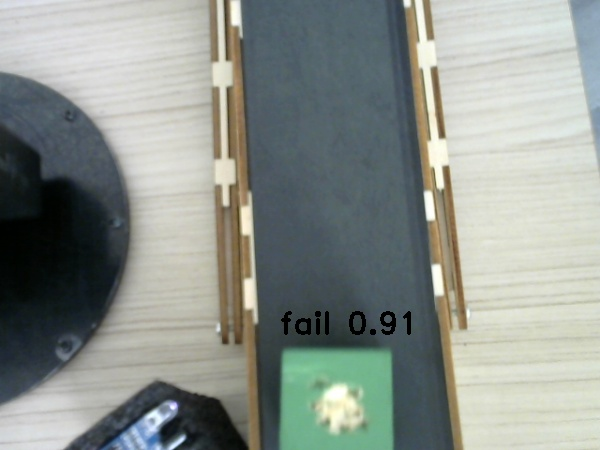
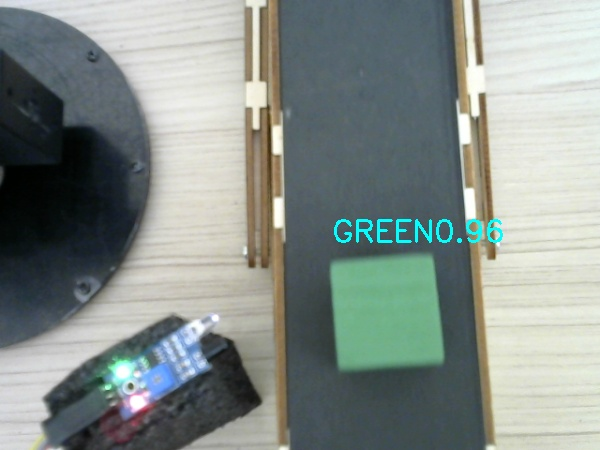
gg

diff --git a/MainTool/ToolManager.cpp b/MainTool/ToolManager.cpp
@@ -6,6 +6,7 @@
 #include "ResultForm.h"
 #include "ServerForm.h"
 #include "CntrlForm.h"
+#include "ConnectTread.h"
 
 ToolManager* ToolManager::m_pInstance = nullptr;
 
@@ -51,6 +52,8 @@ void ToolManager::Initialize()
 	inf = new Inference("C:\\C\\github\\Vision_P\\MainTool\\block.onnx", cv::Size(640, 480), "C:\\C\\github\\Vision_P\\MainTool\\block.txt", true);
 	m_strPickinLst = L"";
 	m_Res = RESULT::RES_END;
+
+	AfxBeginThread(ThreadCamera, this);
 }
 
 bool ToolManager::Update(double t)

diff --git a/MainTool/ResultForm.cpp b/MainTool/ResultForm.cpp
@@ -7,6 +7,7 @@
 #include "ToolManager.h"
 #include "ServerForm.h"
 #include "CntrlForm.h"
+#include "ConnectTread.h"
 
 // ResultForm
 
@@ -113,6 +114,7 @@ void ResultForm::OnInitialUpdate()
 
 	// TODO: 여기에 특수화된 코드를 추가 및/또는 기본 클래스를 호출합니다.
 
+	AfxBeginThread(ThreadCameraButton, this);
 	m_btempdetect.EnableWindow(FALSE);
 	ToolManager::GetInstance()->m_Resform = this;
 }

diff --git a/MainTool/ResultForm.h b/MainTool/ResultForm.h
@@ -36,6 +36,7 @@ public:
 	CStatic m_Color;
 	afx_msg void OnBnClickedButton6();
 	int cnt = 0;
+	bool camera = false;
 	CButton m_btempdetect;
 	virtual void OnInitialUpdate();
 	afx_msg void OnPaint();

diff --git a/MainTool/ConnectTread.h b/MainTool/ConnectTread.h
@@ -3,3 +3,5 @@
 UINT initawsT(LPVOID pParam);
 UINT ThreadSocket(LPVOID pParam);
 UINT COLORRODING(LPVOID pParam);
+UINT ThreadCamera(LPVOID pParam);
+UINT ThreadCameraButton(LPVOID pParam);
